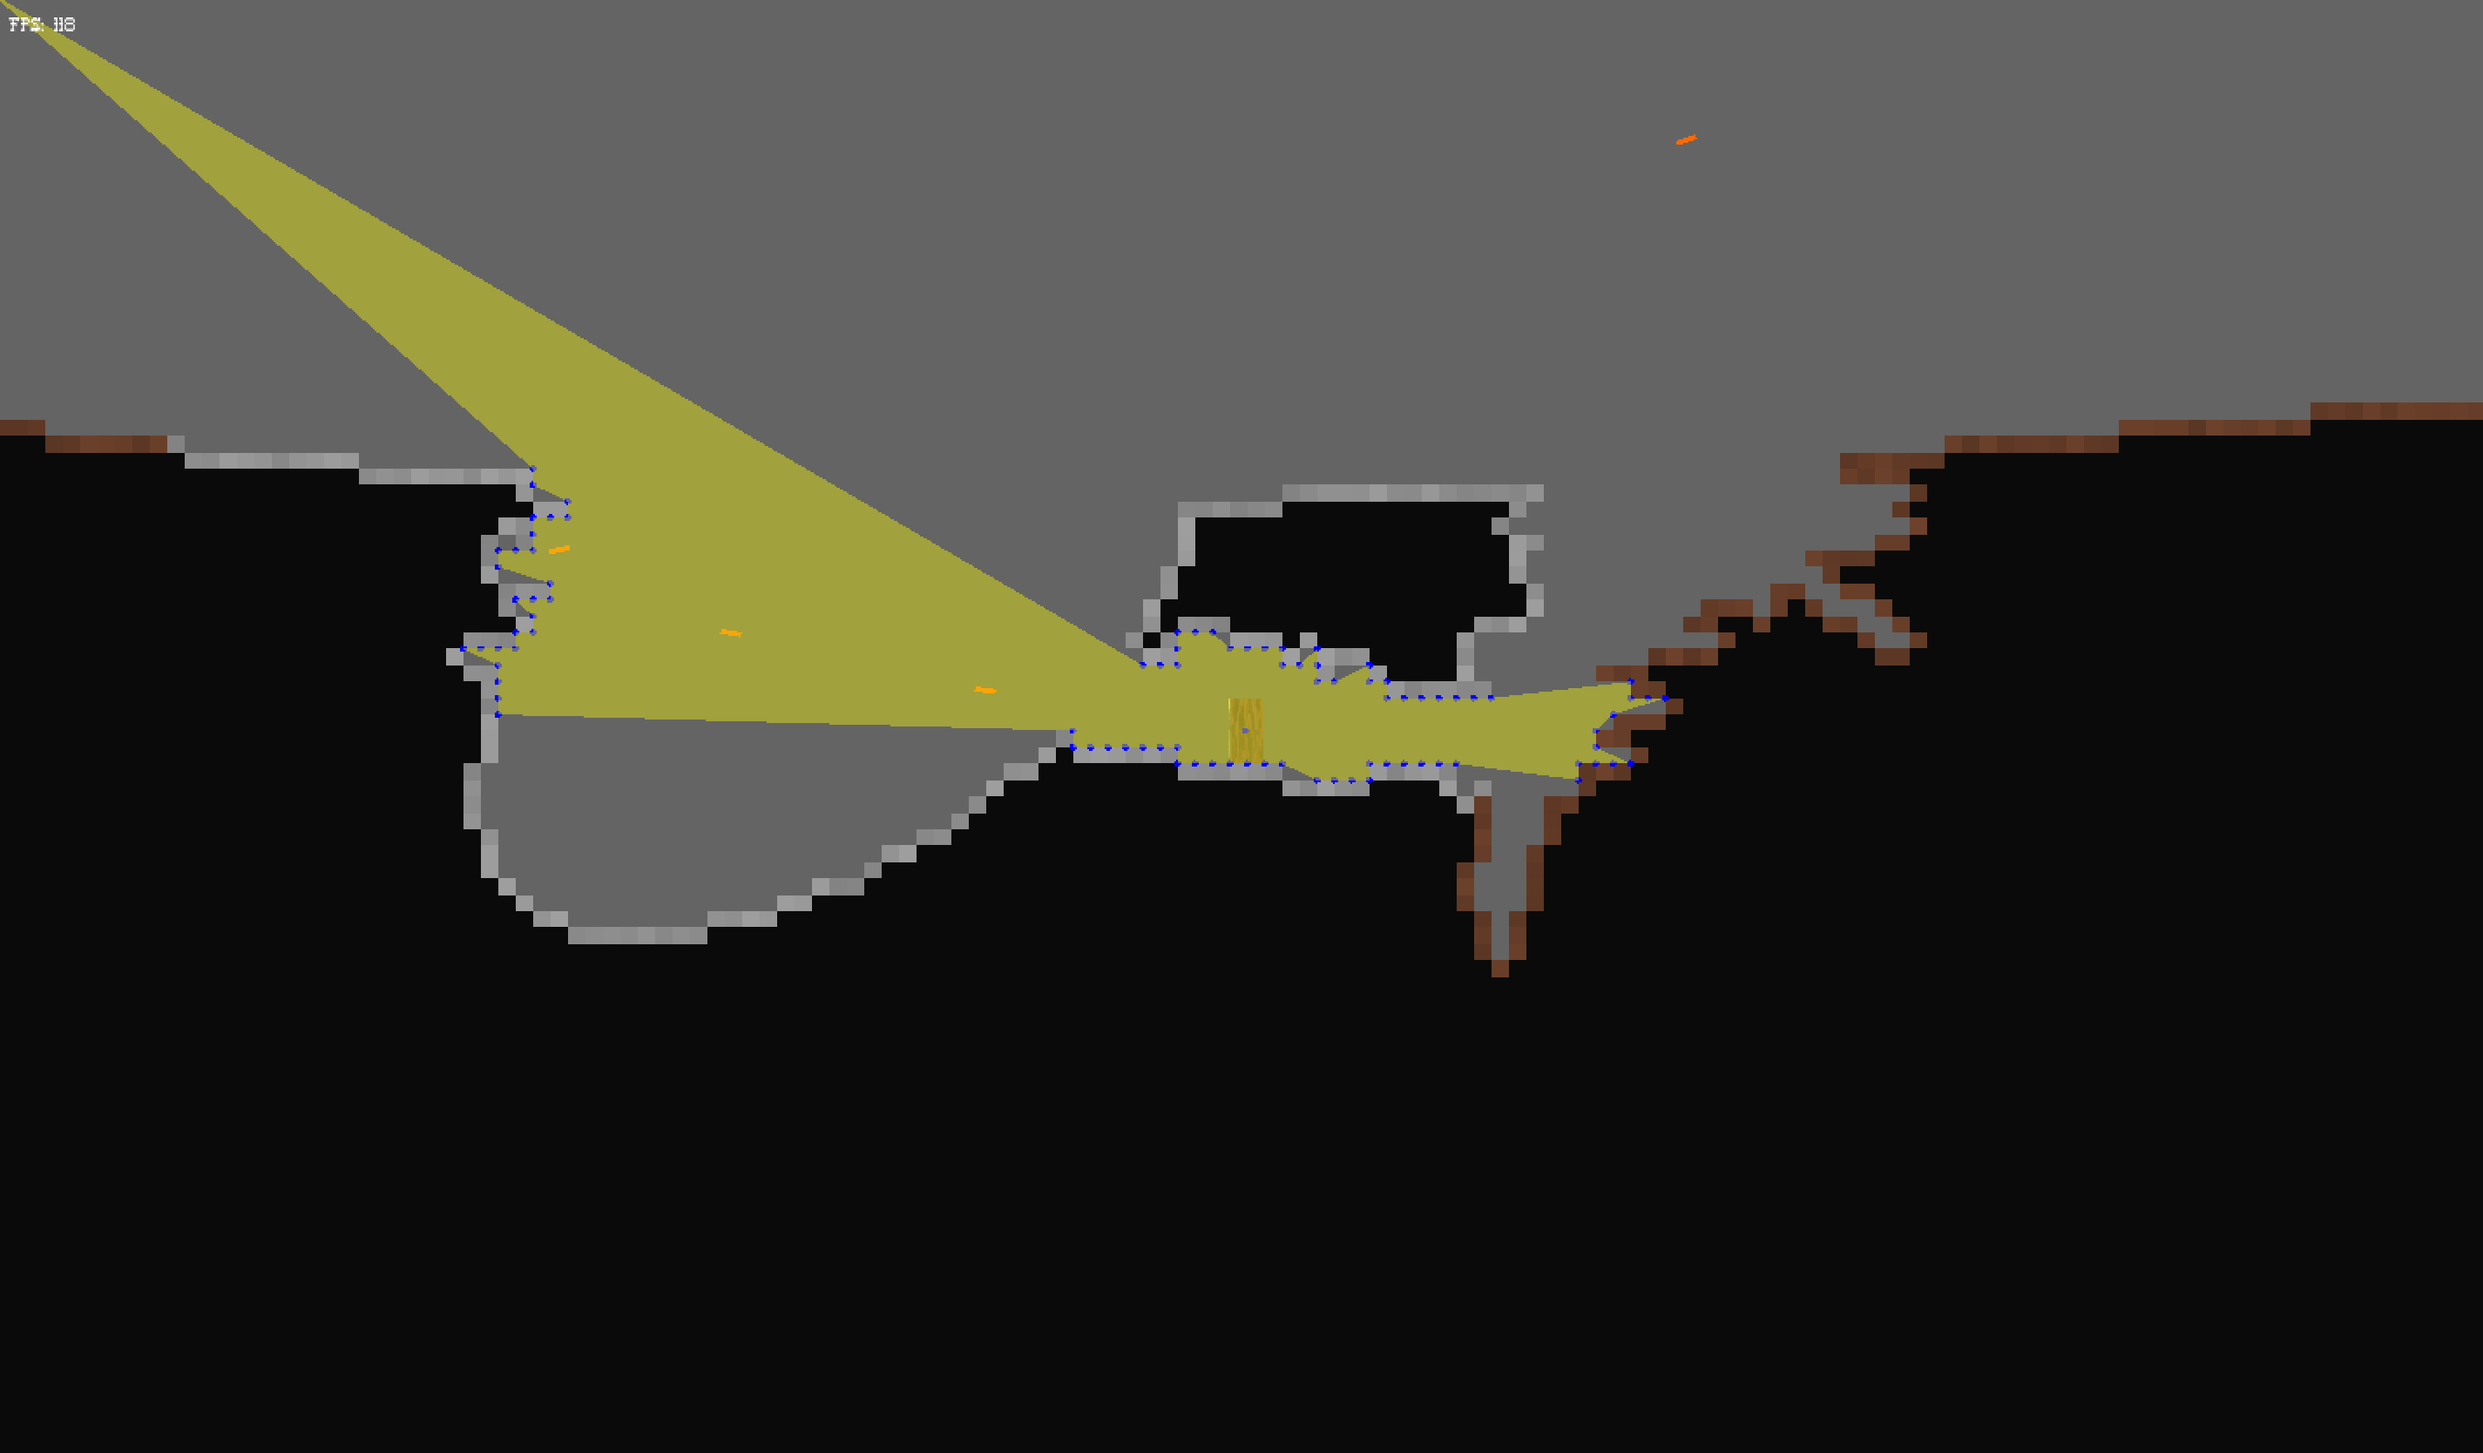
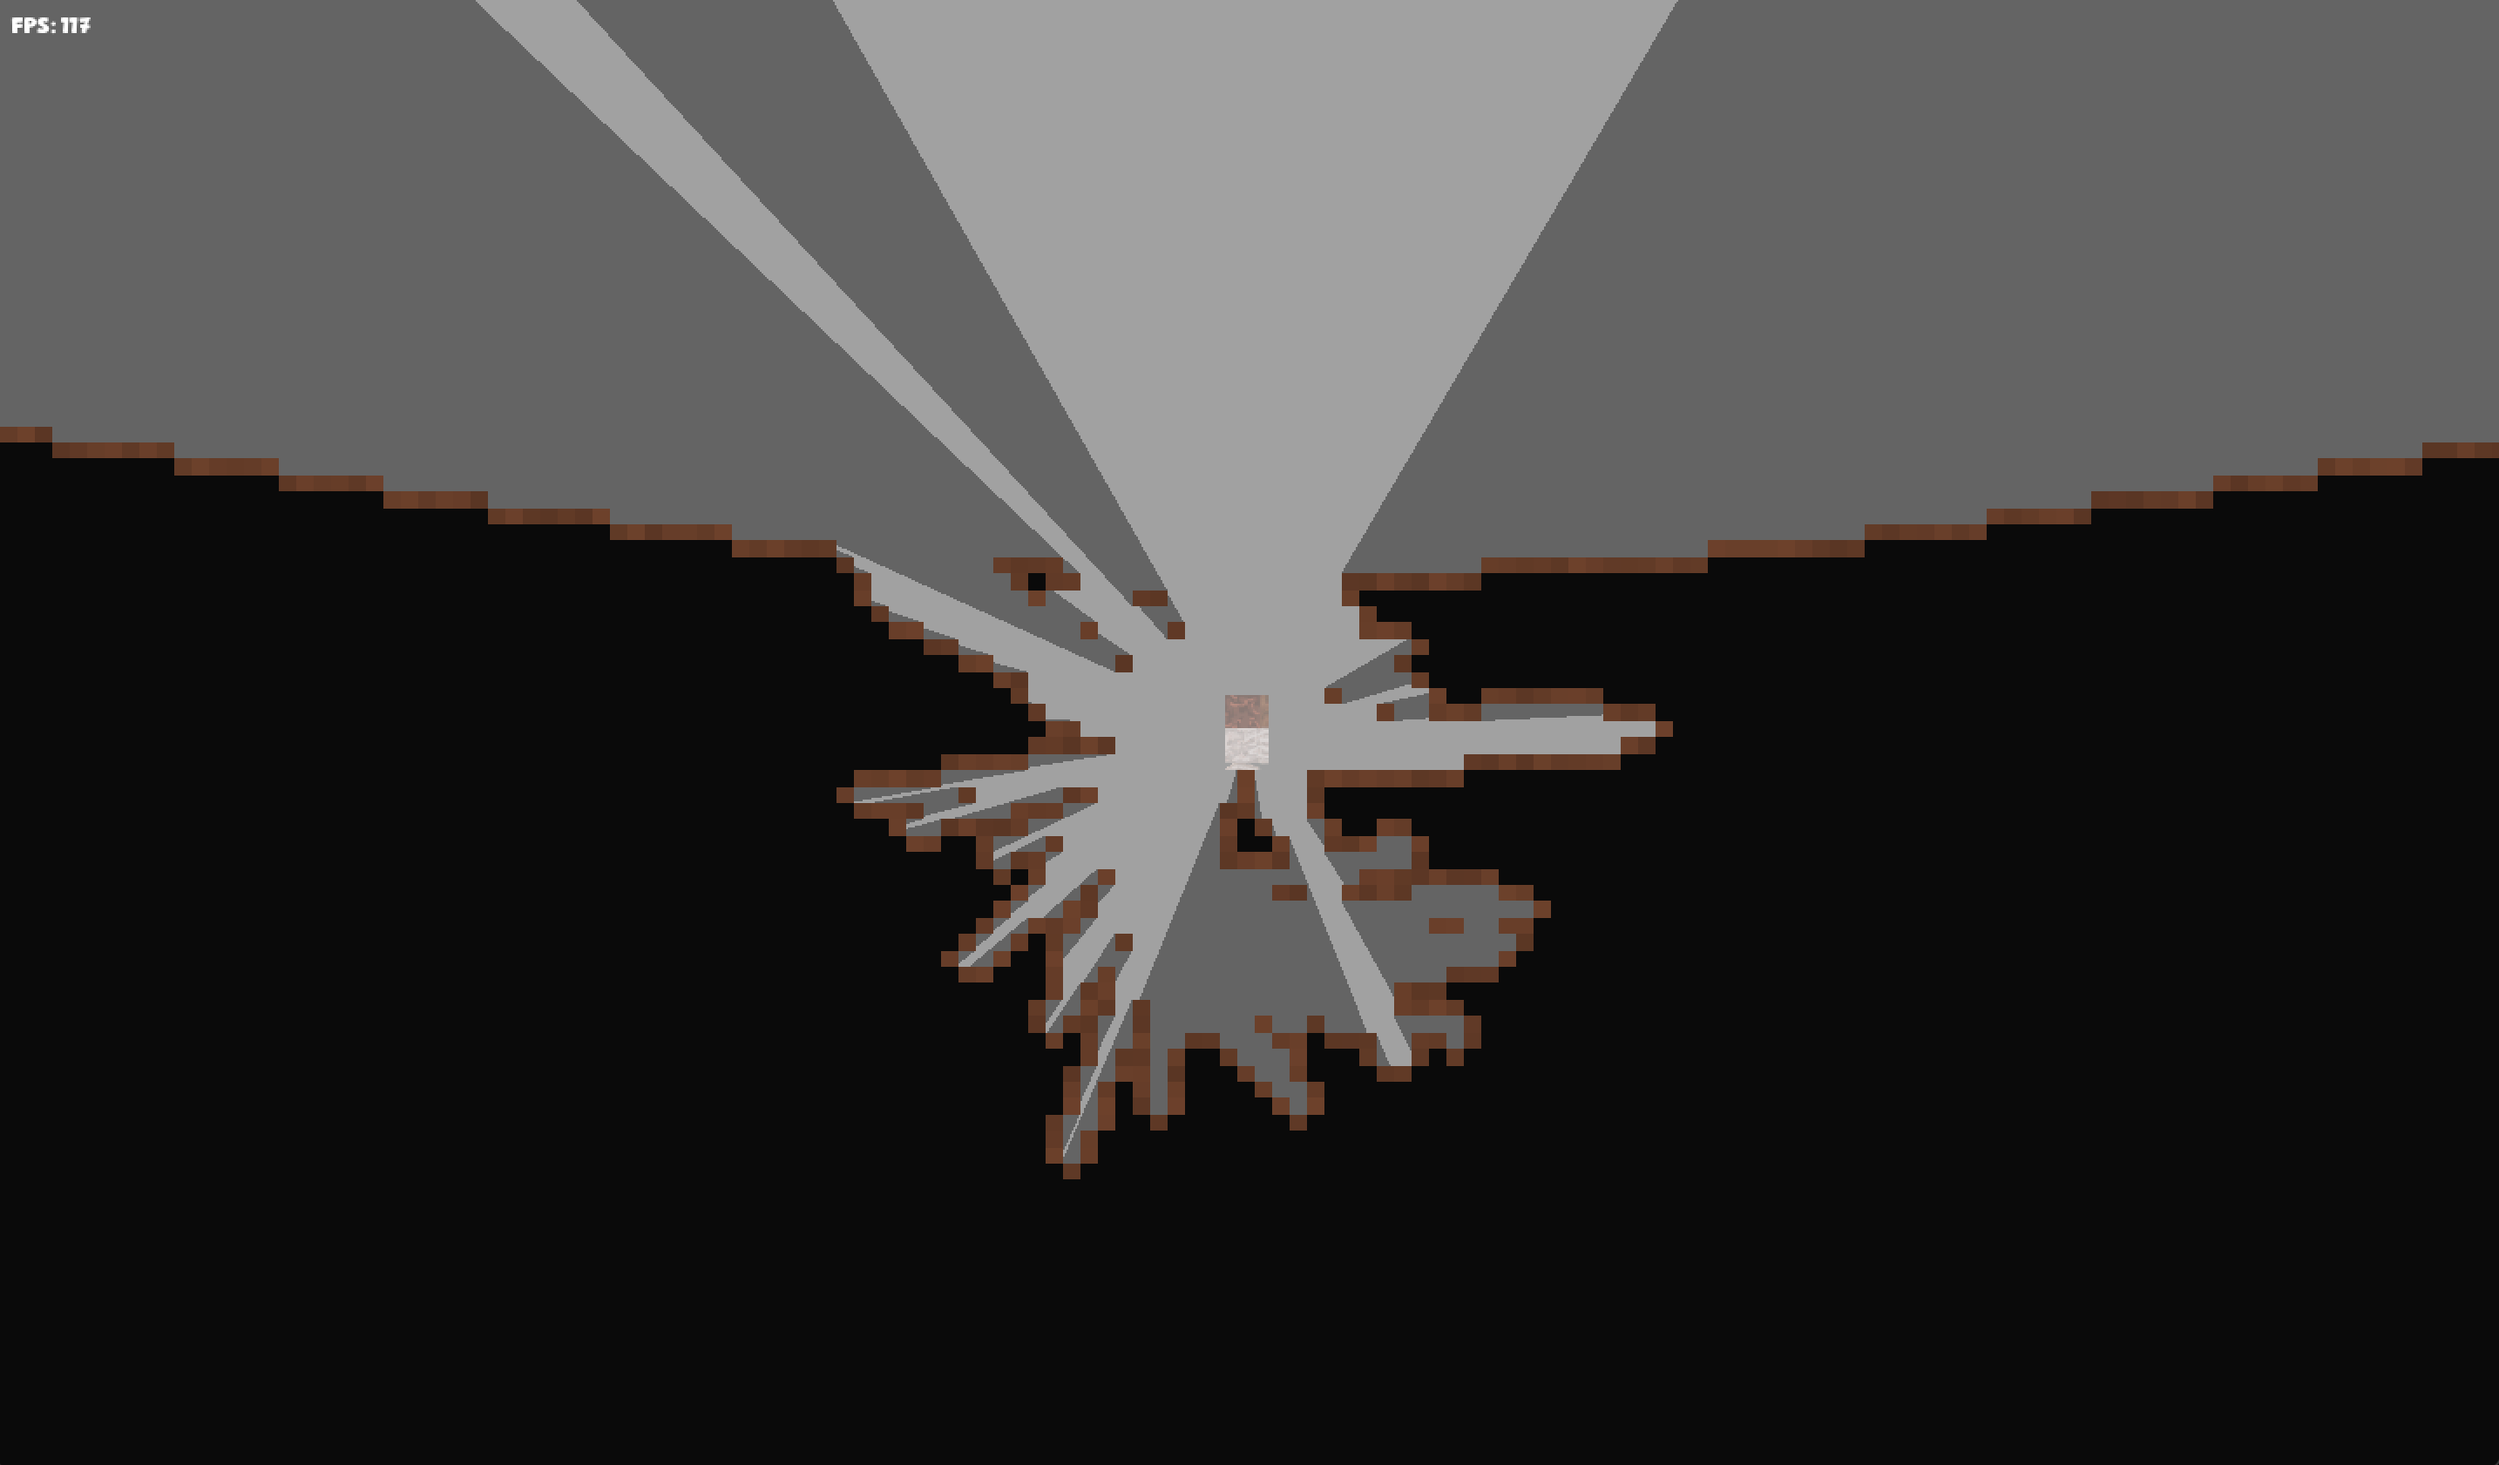
updated readme, cleaned comments, expanded world for tests

diff --git a/src/Globals.hpp b/src/Globals.hpp
@@ -18,7 +18,7 @@ namespace GlobalSettings
     /// TODO: change these types to minimum possible storage with uint16_t and whatever
     inline Vec2i windowSize = { 1280, 720 }; // default value, overriden by fullscreen mode
     inline const int frameRate = 120;
-    inline const Vec2i worldMaxCells = { 500, 500 };
+    inline const Vec2i worldMaxCells = { 1000, 1000 };
     inline const Vec2i cellSizePixels = { 10, 10 };
     inline const EntityID worldMaxEntities = 1000; // not including tiles or other things outside of main entity memory pool
 }

diff --git a/src/ScenePlay.cpp b/src/ScenePlay.cpp
@@ -949,7 +949,7 @@ void ScenePlay::sRender()
         for (int i = 0; i < triangleFan.size(); ++i)
         {
             fan[i].position = sf::Vector2f(triangleFan[i].x, triangleFan[i].y);
-            fan[i].color = sf::Color(255, 255, 0, 100);
+            fan[i].color = sf::Color(255, 255, 255, 100);
 
             // sf::CircleShape dot(2);
             // dot.setPosition({ static_cast<float>(triangleFan[i].x - 2), static_cast<float>(triangleFan[i].y - 2) });
